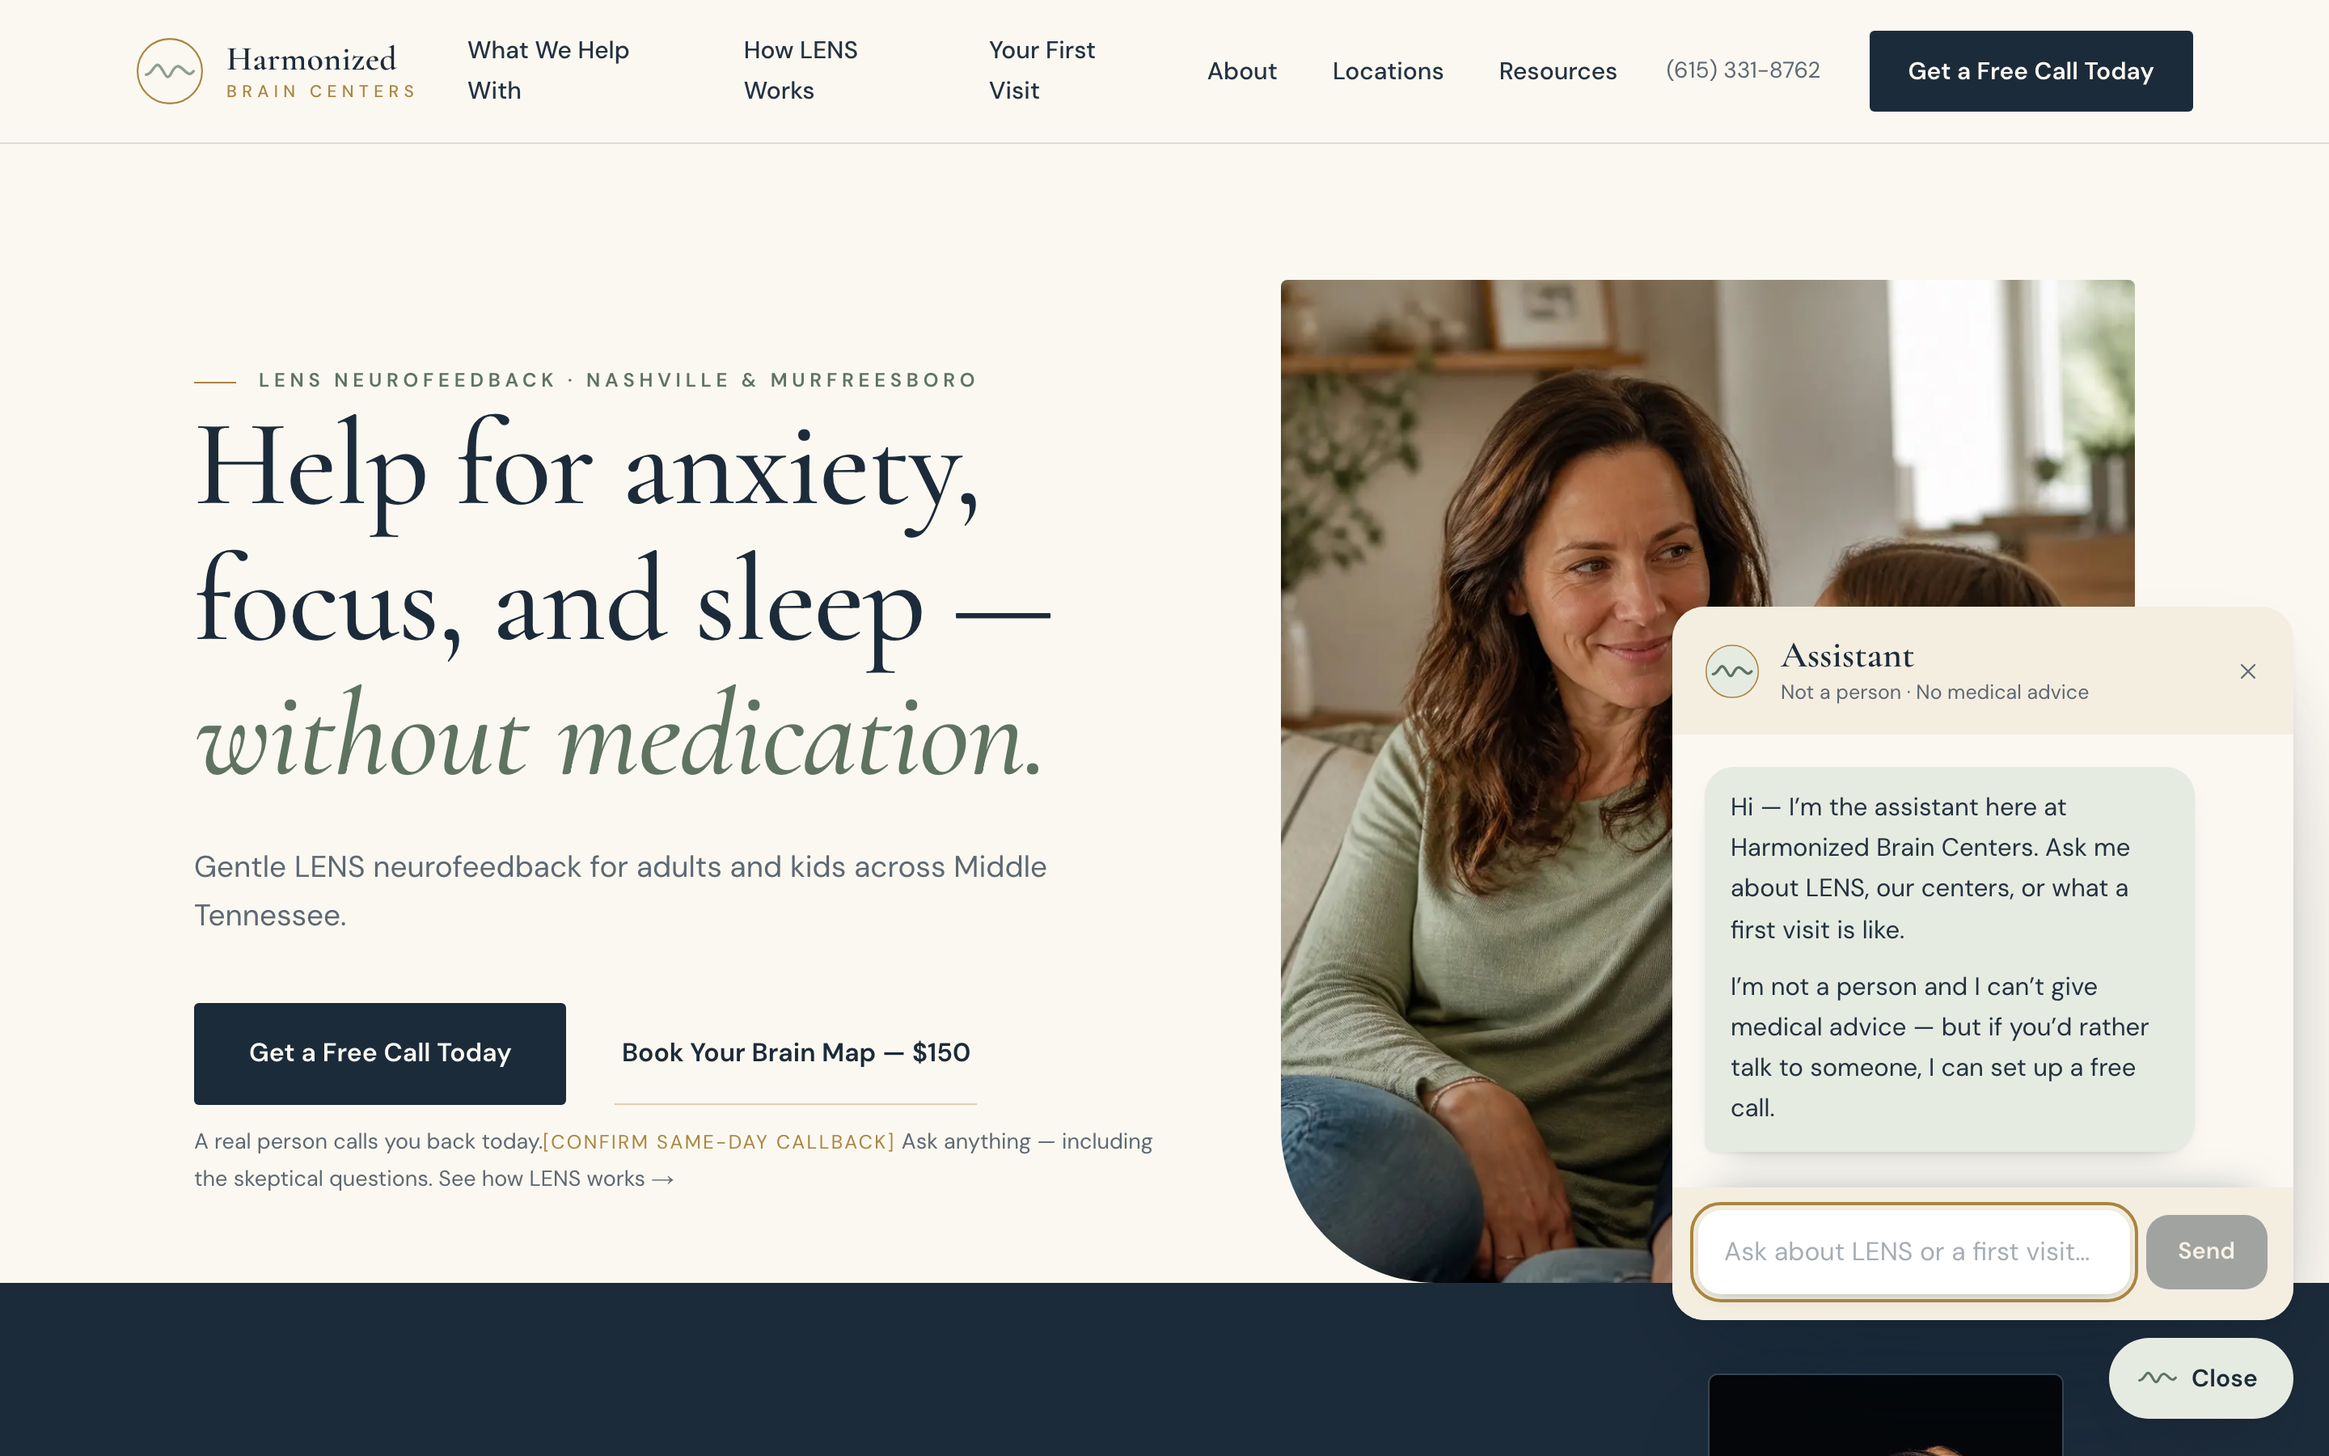
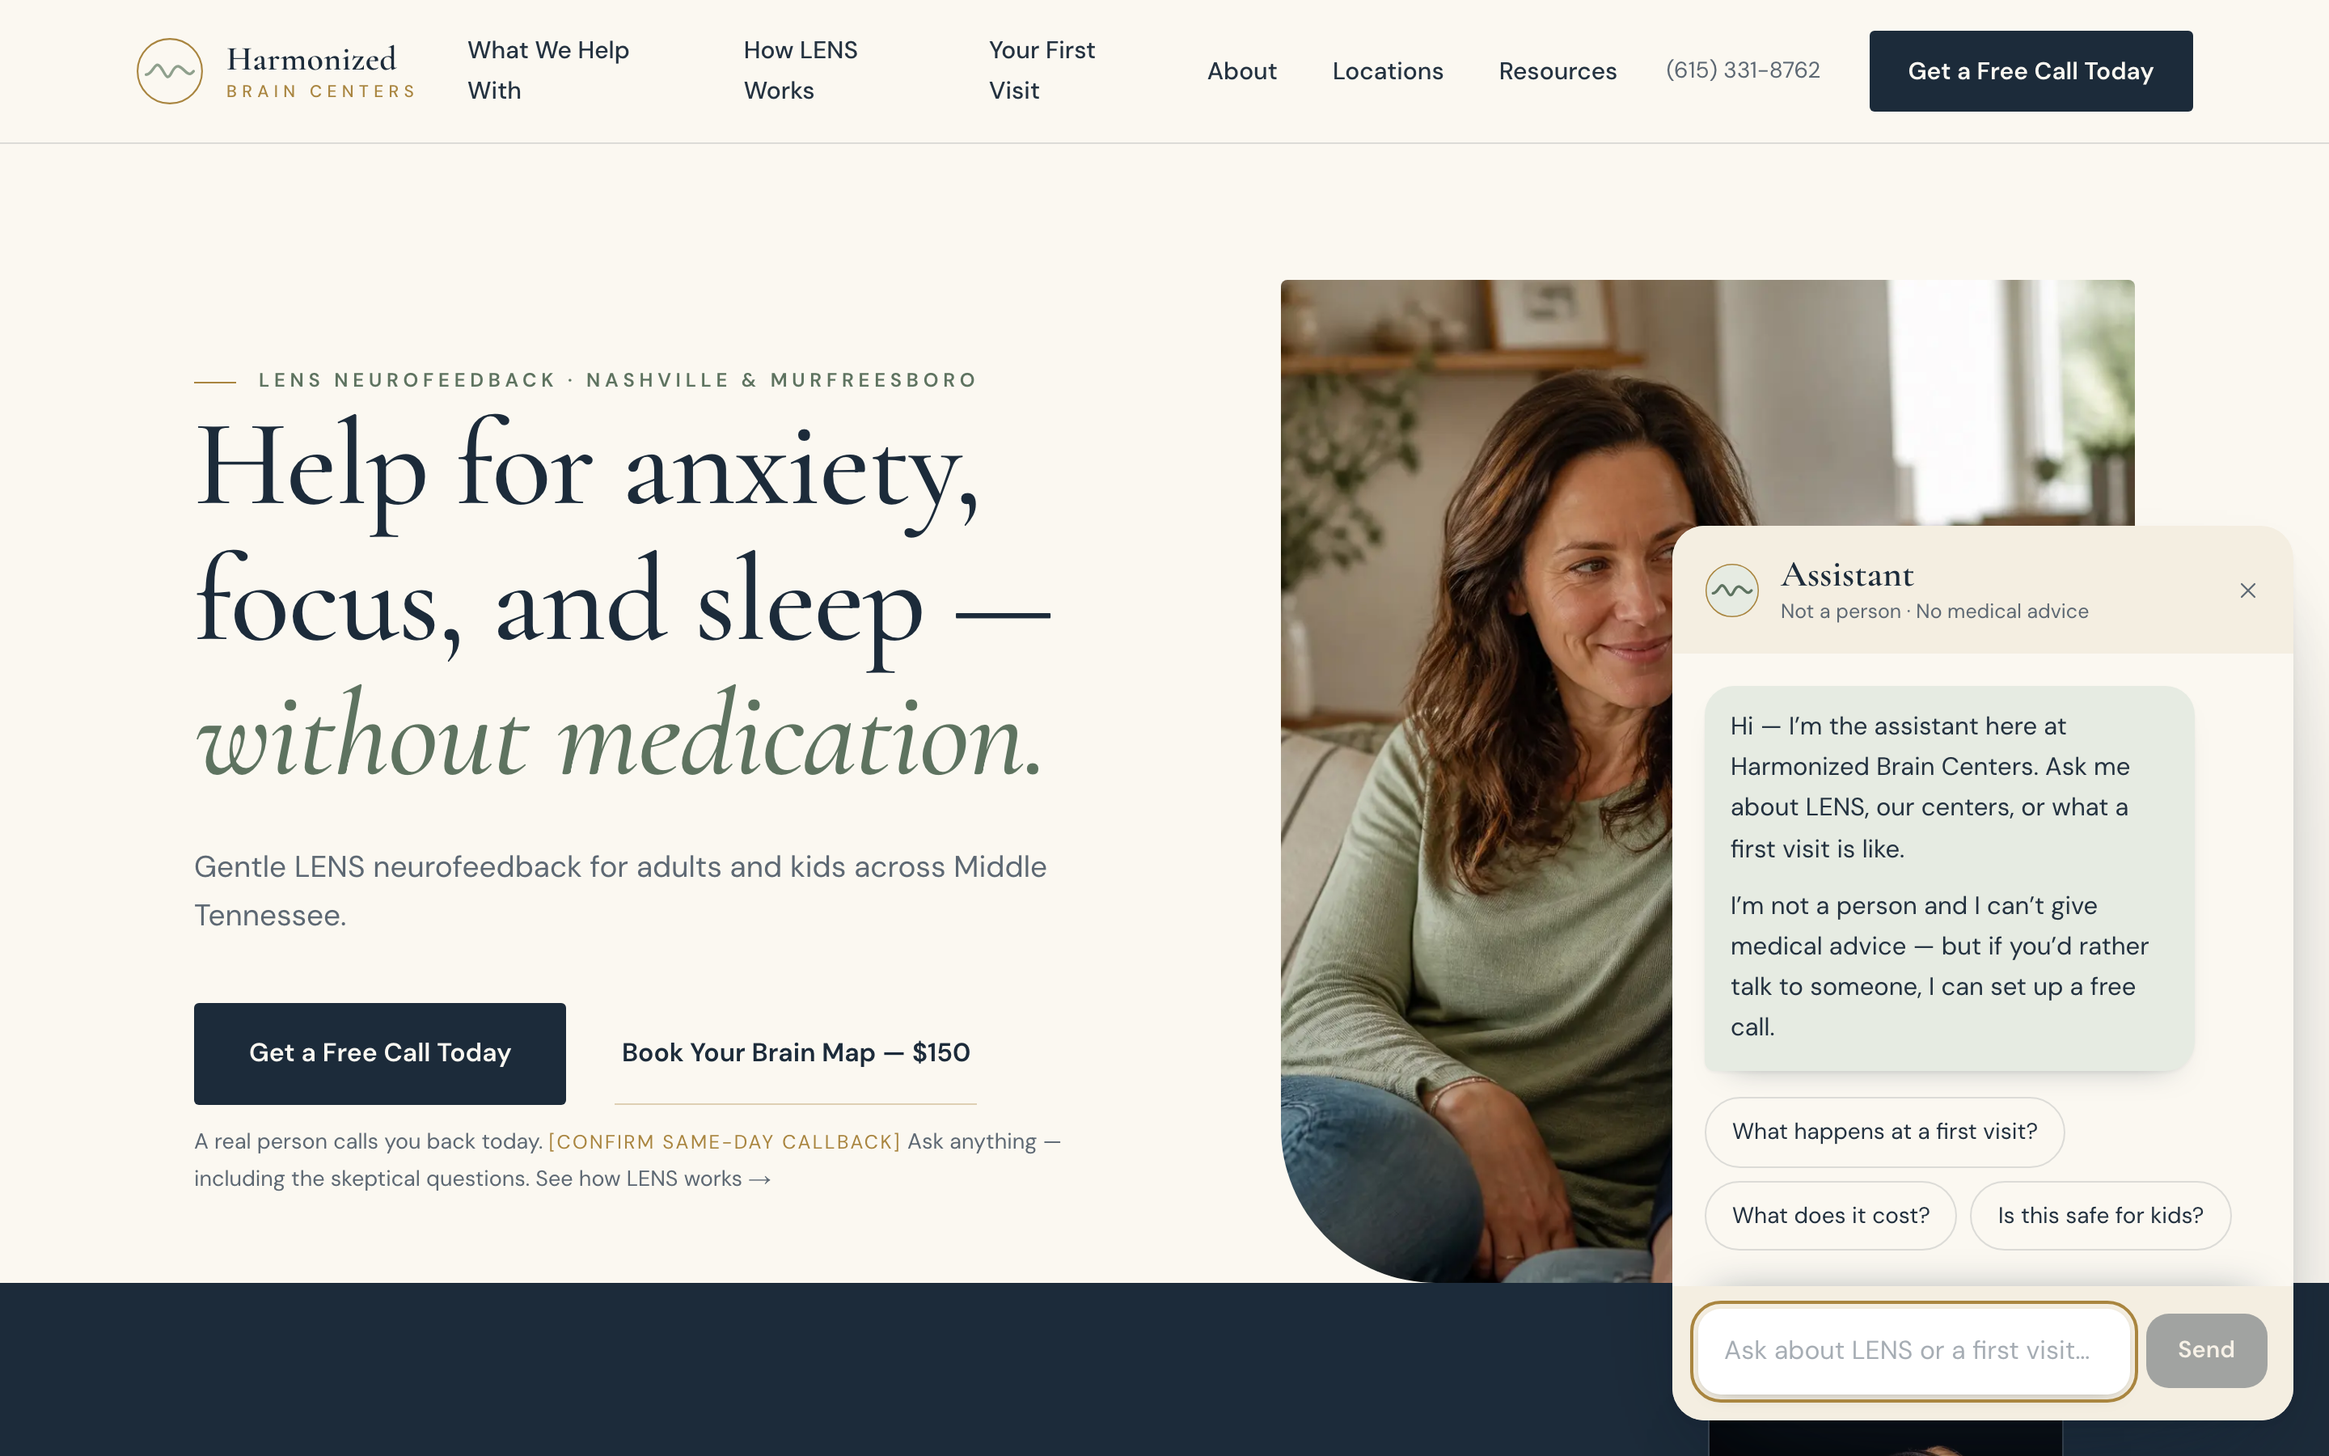
Phase 11a: the empty state, and the cleanup around it
The open panel's first screen was a greeting pinned to the bottom of 800px
of cream, which read as an error rather than an invitation. Two changes.
The log top-aligns again — a thread that outgrows the box still ends up at
its bottom, because the log is scrolled to its end on every message, which
is the only anchoring a scrolling list needs; pinning a single message was
solving nothing. And three starter questions sit under the greeting as
outline pills, the system's own .chip in the panel's type sizes: no fill,
hairline edge, so they stay under the composer's white field and navy Send
in the hierarchy.

A chip is a visitor message the visitor did not have to type, so both it and
the composer go through one submit(). The condition for showing them is
`messages.length === 1`, which is one-way — the array only grows, so once
anything has been said they are gone for good.

All three were run through live retrieval before shipping, since a starter
that grounds to nothing would be worse than no starter:

  first visit  → page:first-visit:five-parts, page:how-lens-works:session,
                 page:first-visit:after, page:first-visit:what
  cost         → policy:pricing, page:first-visit:cost, faq:12,
                 concern:stress-resilience:goals
  safe for kids→ faq:2, concern:trauma:signs, page:how-lens-works:idea,
                 concern:children-school:approach

Launcher is "Have a question?" and only opens. The header X is the single
[…]

Changed region(s): [[0.7188, 0.3422, 1.0, 1.0], [0.2188, 0.7778, 0.5, 0.84], [0.0938, 0.8089, 0.1875, 0.84]]

diff --git a/components/SiteAssistant.tsx b/components/SiteAssistant.tsx
@@ -59,8 +59,36 @@ const ARRIVAL_DELAY_MS = 1400;
  */
 const GREETING = [
   "Hi — I’m the assistant here at Harmonized Brain Centers. Ask me about LENS, our centers, or what a first visit is like.",
+  // Variant A of the two Ben offered: the assistant books the call itself.
+  // lib/chat/booking.ts is a state machine that collects the name and number
+  // and hands app/api/chat/route.ts a payload for /api/consultation, so "I can
+  // set up a free call" is a promise this code actually keeps. Variant B
+  // ("there's a free call you can book in about a minute") would describe a
+  // link to /contact, which is the fallback path here, not the main one.
   "I’m not a person and I can’t give medical advice — but if you’d rather talk to someone, I can set up a free call.",
 ].join("\n\n");
+
+/**
+ * The empty state's starter questions. Three, because the panel opens on a
+ * greeting and a blank field and "ask me anything" is the hardest prompt to
+ * answer cold — these show the shape of what is in scope without the visitor
+ * having to guess it.
+ *
+ * Each one is checked against live retrieval before shipping (scripts run in
+ * the phase 11a report): they exist to demonstrate that the assistant knows
+ * things, so a starter that grounds to nothing would be worse than no starter
+ * at all.
+ */
+const STARTERS = [
+  "What happens at a first visit?",
+  "What does it cost?",
+  "Is this safe for kids?",
+];
+
+/** Below this the full placeholder does not fit the field. */
+const NARROW_QUERY = "(max-width: 360px)";
+const PLACEHOLDER = "Ask about LENS or a first visit…";
+const PLACEHOLDER_NARROW = "Ask a question…";
 
 type Message = { from: "assistant" | "visitor"; text: string };
 
@@ -141,11 +169,14 @@ export default function SiteAssistant() {
   const [draft, setDraft] = useState("");
   const [sending, setSending] = useState(false);
   const [ended, setEnded] = useState(false);
+  const [narrow, setNarrow] = useState(false);
   const sessionId = useRef<string | null>(null);
   const logRef = useRef<HTMLDivElement>(null);
   const inputRef = useRef<HTMLInputElement>(null);
   const panelRef = useRef<HTMLDivElement>(null);
   const launcherRef = useRef<HTMLButtonElement>(null);
+  /** Set by close() so the focus-restore effect knows the close was ours. */
+  const restoreFocus = useRef(false);
   const panelId = useId();
   const titleId = useId();
 
@@ -200,17 +231,40 @@ export default function SiteAssistant() {
   }, [mounted]);
 
   const close = useCallback(() => {
+    restoreFocus.current = true;
     setOpen(false);
-    // Focus returns to the launcher, unless it is hidden — stood down for the
-    // CTA bar on a phone (already hidden, so the computed style says so), or
-    // parked at the footer (hidden by the very render this call triggers, so
-    // only the state says so). Focusing a hidden element drops focus to the
-    // body without reporting it, which is worse than not moving focus at all.
+  }, []);
+
+  /**
+   * Focus returns to the launcher after the close has rendered, not during
+   * it. The launcher is `display: none` while the panel is open — there is
+   * one close control, the header X, and the launcher no longer doubles as a
+   * second one — so focusing it inside close() would be focusing a hidden
+   * element, which silently drops focus to the body.
+   *
+   * The same reading covers the launcher being unavailable for other reasons
+   * once the panel is gone: parked at the footer, or stood down for the CTA
+   * bar on a phone. If it is not visible, focus stays where it is.
+   */
+  useEffect(() => {
+    if (open || !restoreFocus.current) return;
+    restoreFocus.current = false;
     const launcher = launcherRef.current;
-    if (!launcher || parked) return;
+    if (!launcher) return;
     const cs = getComputedStyle(launcher);
     if (cs.visibility !== "hidden" && cs.display !== "none") launcher.focus();
-  }, [parked]);
+  }, [open]);
+
+  // The full placeholder does not fit the field on the narrowest phones, and
+  // the field cannot take smaller type — anything under 16px makes iOS zoom
+  // the viewport on focus, which would break the sheet's height mid-sentence.
+  useEffect(() => {
+    const mq = window.matchMedia(NARROW_QUERY);
+    const apply = () => setNarrow(mq.matches);
+    apply();
+    mq.addEventListener("change", apply);
+    return () => mq.removeEventListener("change", apply);
+  }, []);
 
   useEffect(() => {
     if (open) inputRef.current?.focus();
@@ -317,9 +371,15 @@ export default function SiteAssistant() {
     return () => document.removeEventListener("keydown", onKey);
   }, [open, close]);
 
-  async function send(e: React.FormEvent) {
-    e.preventDefault();
-    const text = draft.trim();
+  /**
+   * One path in for both the composer and the starter chips — a chip is a
+   * visitor message that the visitor did not have to type, and it must reach
+   * the API as exactly that. Deliberately a plain function rather than a
+   * useCallback: it reads `sending` and `ended` on every call, and a memoised
+   * version would let a second submit through on a stale guard.
+   */
+  async function submit(raw: string) {
+    const text = raw.trim();
     if (!text || sending || ended) return;
 
     setMessages((prev) => [...prev, { from: "visitor", text }]);
@@ -427,6 +487,24 @@ export default function SiteAssistant() {
                 <span />
               </div>
             )}
+            {/* Starter questions, greeting only. `messages.length === 1` is
+                the whole condition and it is one-way: the array only ever
+                grows, so once the visitor has said anything — typed or
+                tapped — these are gone and cannot come back. */}
+            {messages.length === 1 && !sending && !ended && (
+              <div className="assistant-chips">
+                {STARTERS.map((question) => (
+                  <button
+                    key={question}
+                    type="button"
+                    className="assistant-chip"
+                    onClick={() => submit(question)}
+                  >
+                    {question}
+                  </button>
+                ))}
+              </div>
+            )}
           </div>
 
           {ended ? (
@@ -435,16 +513,18 @@ export default function SiteAssistant() {
               reach the team.
             </p>
           ) : (
-            <form className="assistant-compose" onSubmit={send}>
-              {/* The placeholder was "Ask about LENS, visits, or our centers…",
-                  which measures 283px against the 235px of field a 384px panel
-                  leaves — it rendered ellipsed at every width. This one fits
-                  from 384px up; below 360px it still clips a little. */}
+            <form
+              className="assistant-compose"
+              onSubmit={(e) => {
+                e.preventDefault();
+                submit(draft);
+              }}
+            >
               <input
                 ref={inputRef}
                 value={draft}
                 onChange={(e) => setDraft(e.target.value)}
-                placeholder="Ask about LENS or a first visit…"
+                placeholder={narrow ? PLACEHOLDER_NARROW : PLACEHOLDER}
                 aria-label="Your question"
                 maxLength={2000}
                 disabled={sending}
@@ -457,16 +537,21 @@ export default function SiteAssistant() {
         </div>
       )}
 
+      {/* Opens, and only opens. The header X is the one way out — a launcher
+          that relabels itself "Close" puts two close controls on screen and
+          makes the pill a mode switch instead of an invitation. It is
+          `display: none` while the panel is open (globals.css), so there is
+          nothing to press and no expanded state to announce; aria-haspopup
+          says what it does instead of aria-expanded saying what it is. */}
       <button
         type="button"
         className="assistant-launcher"
         ref={launcherRef}
-        onClick={() => (open ? close() : setOpen(true))}
-        aria-expanded={open}
-        aria-controls={open ? panelId : undefined}
+        onClick={() => setOpen(true)}
+        aria-haspopup="dialog"
       >
         <AssistantWave />
-        {open ? "Close" : "Questions?"}
+        Have a question?
       </button>
     </div>
   );

diff --git a/app/globals.css b/app/globals.css
@@ -816,6 +816,9 @@ footer.site { background: var(--navy-deep); color: rgba(251, 248, 241, 0.68); pa
    text does not get covered by anything. SiteAssistant only sets this while
    the panel is closed, so an open conversation is never yanked away. */
 .assistant.is-parked .assistant-launcher { opacity: 0; visibility: hidden; transform: translateY(8px); pointer-events: none; }
+/* Gone while the panel is open, at every width. The header X is the single
+   close control; the launcher does not become a second one. */
+.assistant.is-open .assistant-launcher { display: none; }
 
 /* -- the panel -- */
 .assistant-panel {
@@ -852,12 +855,20 @@ footer.site { background: var(--navy-deep); color: rgba(251, 248, 241, 0.68); pa
    scroll area between the header and the composer. overscroll-behavior stops
    a flick at the end of the log from scrolling the page behind it. */
 .assistant-log { flex: 1 1 auto; min-height: 0; overflow-y: auto; overscroll-behavior: contain; -webkit-overflow-scrolling: touch; background: var(--ivory); padding: 20px 20px 22px; display: flex; flex-direction: column; gap: 14px; }
-/* A short conversation settles at the bottom of the sheet, next to the
-   composer, rather than stranding the greeting at the top of 800px of empty
-   cream. `margin-top: auto` on the first message rather than
-   `justify-content: flex-end` on the container: auto margins resolve to zero
-   once the content overflows, so a long thread still scrolls to its top. */
-.assistant-log > :first-child { margin-top: auto; }
+/* The log top-aligns. A single greeting pinned to the bottom of an 800px
+   sheet read as an error state — the panel looked empty and the one thing in
+   it looked stranded. A thread that outgrows the box bottom-anchors on its
+   own: the log is scrolled to its end on every new message (SiteAssistant),
+   which is the only "anchoring" a scrolling list needs. */
+
+/* Starter questions under the greeting. Outline pills — the system's own
+   .chip, in the panel's type sizes — so they read as suggestions rather than
+   as a row of buttons, and stay under the composer in the hierarchy: no
+   fill, hairline edge, against the composer's white field and navy Send. */
+.assistant-chips { display: flex; flex-wrap: wrap; gap: 8px; margin-top: 2px; }
+.assistant-chip { font-family: var(--sans); font-size: 14px; line-height: 1.4; text-align: left; color: var(--ink); background: transparent; border: 1px solid var(--line); border-radius: 100px; padding: 11px 16px; cursor: pointer; transition: border-color 0.2s var(--ease-soft), background 0.2s var(--ease-soft); }
+.assistant-chip:hover { border-color: var(--sage-deep); background: var(--sage-soft); }
+.assistant-chip:focus-visible { border-radius: 100px; }
 
 /* Author modifiers are `from-assistant` / `from-visitor`, never the bare
    author name: `.assistant` is the widget root (position: fixed, bottom
@@ -934,8 +945,7 @@ footer.site { background: var(--navy-deep); color: rgba(251, 248, 241, 0.68); pa
   .assistant-close { width: 44px; height: 44px; }
   .assistant-log { padding: 18px 18px 22px; gap: 13px; }
   .assistant-msg { max-width: 90%; }
-  /* Behind the sheet, so it cannot be reached or seen. */
-  .assistant.is-open .assistant-launcher { display: none; }
+  .assistant-chip { min-height: 44px; }
 }
 @keyframes assistant-sheet-in {
   from { opacity: 0; transform: translateY(16px); }

diff --git a/app/page.tsx b/app/page.tsx
@@ -237,7 +237,10 @@ export default function HomePage() {
                   same sentence without the timeframe. */}
               {verifiedOr(SAME_DAY_CALLBACK) ? (
                 <>
-                  A real person calls you back today.
+                  {/* Explicit {" "}: JSX drops whitespace that spans a line
+                      break, so without it the tag rendered hard against the
+                      full stop — "back today.[CONFIRM …]". */}
+                  A real person calls you back today.{" "}
                   <ConfirmTag>{SAME_DAY_CALLBACK.note!}</ConfirmTag>
                 </>
               ) : (
